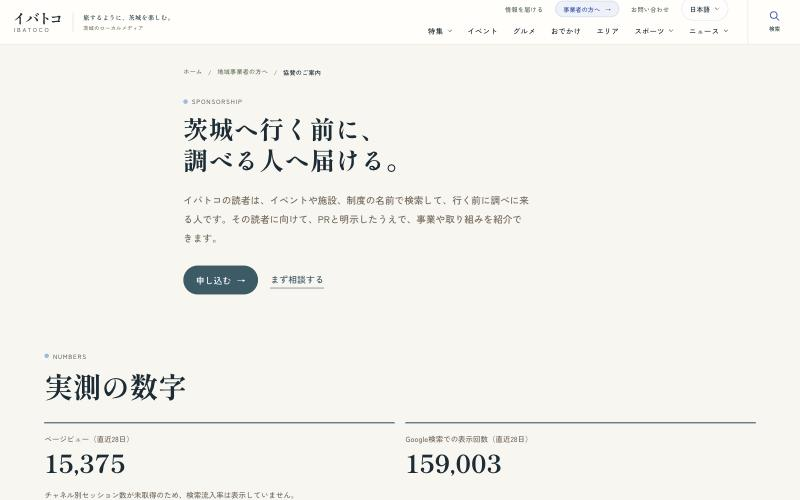
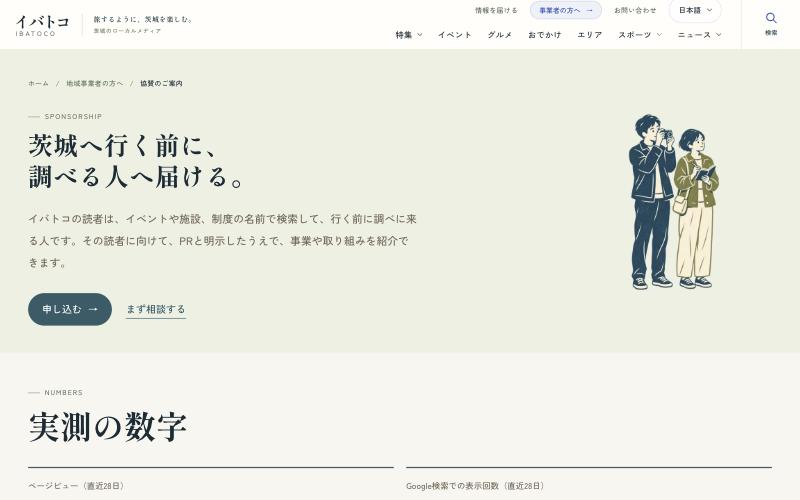
design: v42 colors for sponsor apply, no lone last char in hero text and city photo tag; screenshots
- sponsor/apply heading in v42 colors (form unchanged)
- .v42-hero paragraphs use text-wrap: pretty
- city hero photo tag breaks at word gaps (keep-all) so "園" does not drop alone at 320px
- PC/phone screenshots for area, search, sports team, sponsor

diff --git a/src/styles/v42.css b/src/styles/v42.css
@@ -416,3 +416,13 @@ body.interior-site .sp-cta__art {
   border: 8px solid #fffefa;
   box-shadow: 0 10px 24px #263b3824;
 }
+
+/* 協賛の申し込み：見出しを v42 の配色に（フォームの項目と送信の挙動は変えない） */
+body.interior-site .apply__head h1 { color: var(--v42-ink) !important; font-weight: 500 !important; }
+body.interior-site .apply__head > p:not(.bp-kicker) { color: var(--v42-copy) !important; }
+body.interior-site .apply__head b { color: var(--v42-ink) !important; }
+
+/* 帯の中の文は挿絵の列のぶん狭くなる。最後の行が1文字だけにならないように */
+body.interior-site .v42-hero > p { text-wrap: pretty; }
+/* 市町村ページの写真の札（例「日立駅 × かみね公園」）：狭い幅で「園」だけが次の行に落ちないよう、語の区切りで折る */
+body.interior-site .city-hero__art-tag strong { word-break: keep-all; overflow-wrap: break-word; }
